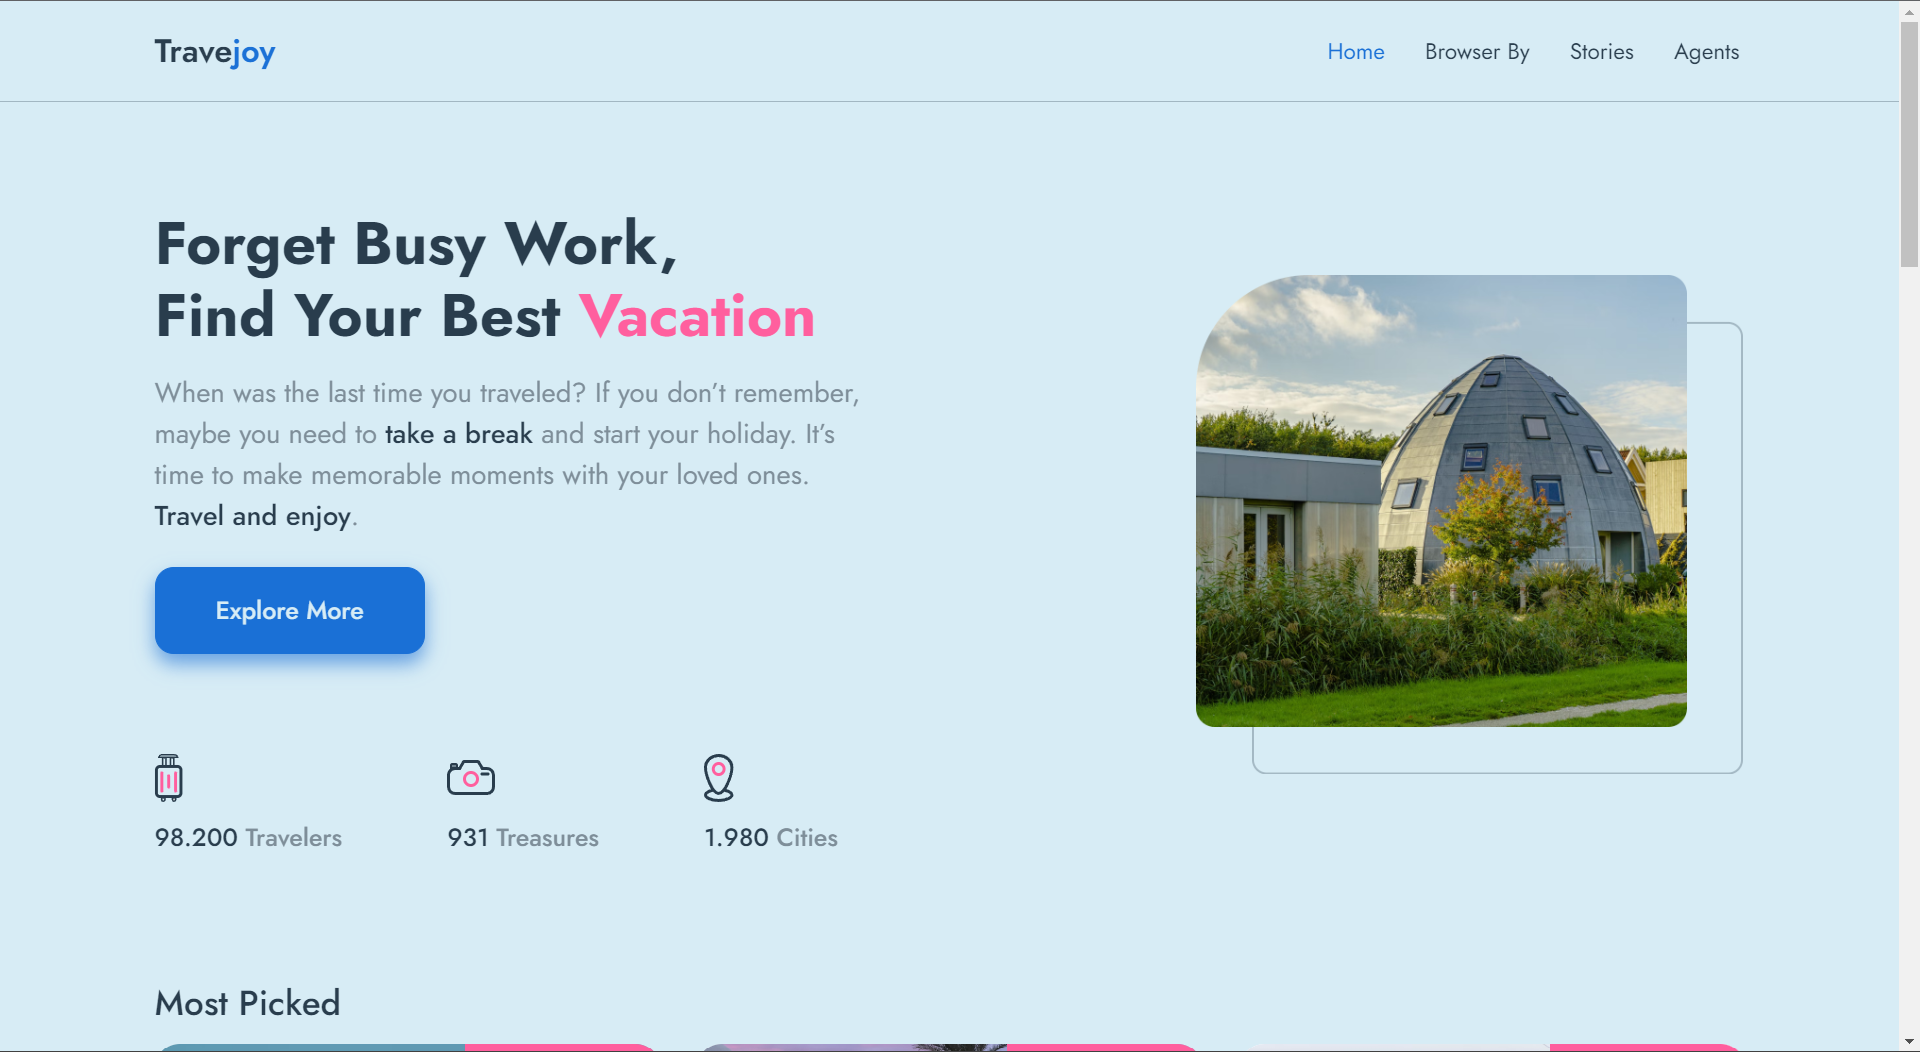
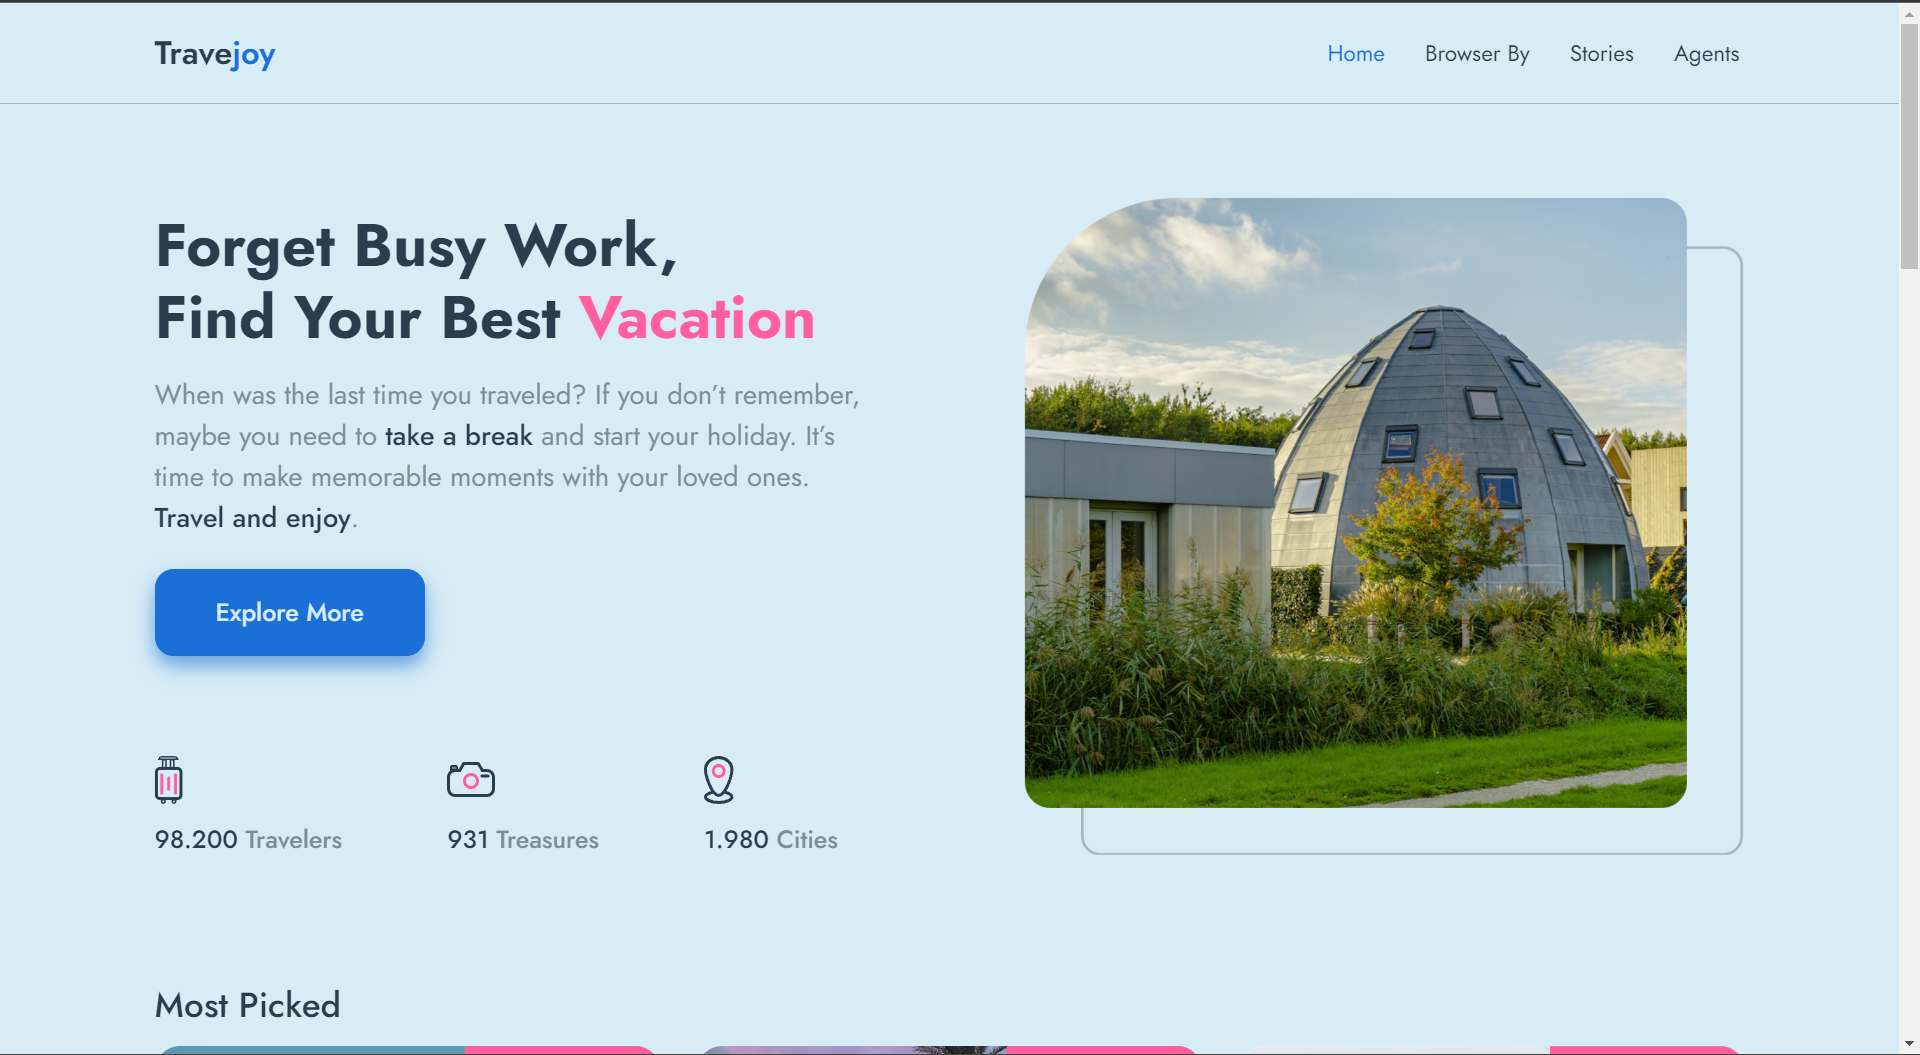
Add testimonial section + add fade effect

diff --git a/src/parts/Hero.js b/src/parts/Hero.js
@@ -22,9 +22,9 @@ export default function Hero(props) {
 
 
   return (
-    <Fade bottom>
     <section className="container pt-4">
       <div className="row m-0 align-items-center">
+      <Fade bottom>
         <div className="col-auto pr-5" style={{ width: 590 }}>
           <h1 className="fs-2 mt-4 fw-bold line-height-1 mb-3">
             Forget Busy Work, <br />
@@ -87,9 +87,10 @@ export default function Hero(props) {
             </div>
           </div>
         </div>
-
+        </Fade>
         <div className="col-auto ps-5">
           <div className="d-flex justify-content-end align-items-center" style={{width: 600, height: 600 }}>
+          <Fade bottom delay={200}>
             <img
               src={ImageHero}
               alt="Room with couches"
@@ -102,10 +103,11 @@ export default function Hero(props) {
               className="img-fluid position-absolute"
               style={{width: 'auto', height: 'auto', maxWidth: '100%', maxHeight: '58%', margin: "0 -45px -45px 0"}}
             />
+             </Fade>
           </div>
         </div>
+
       </div>
     </section>
-    </Fade>
   );
 }
